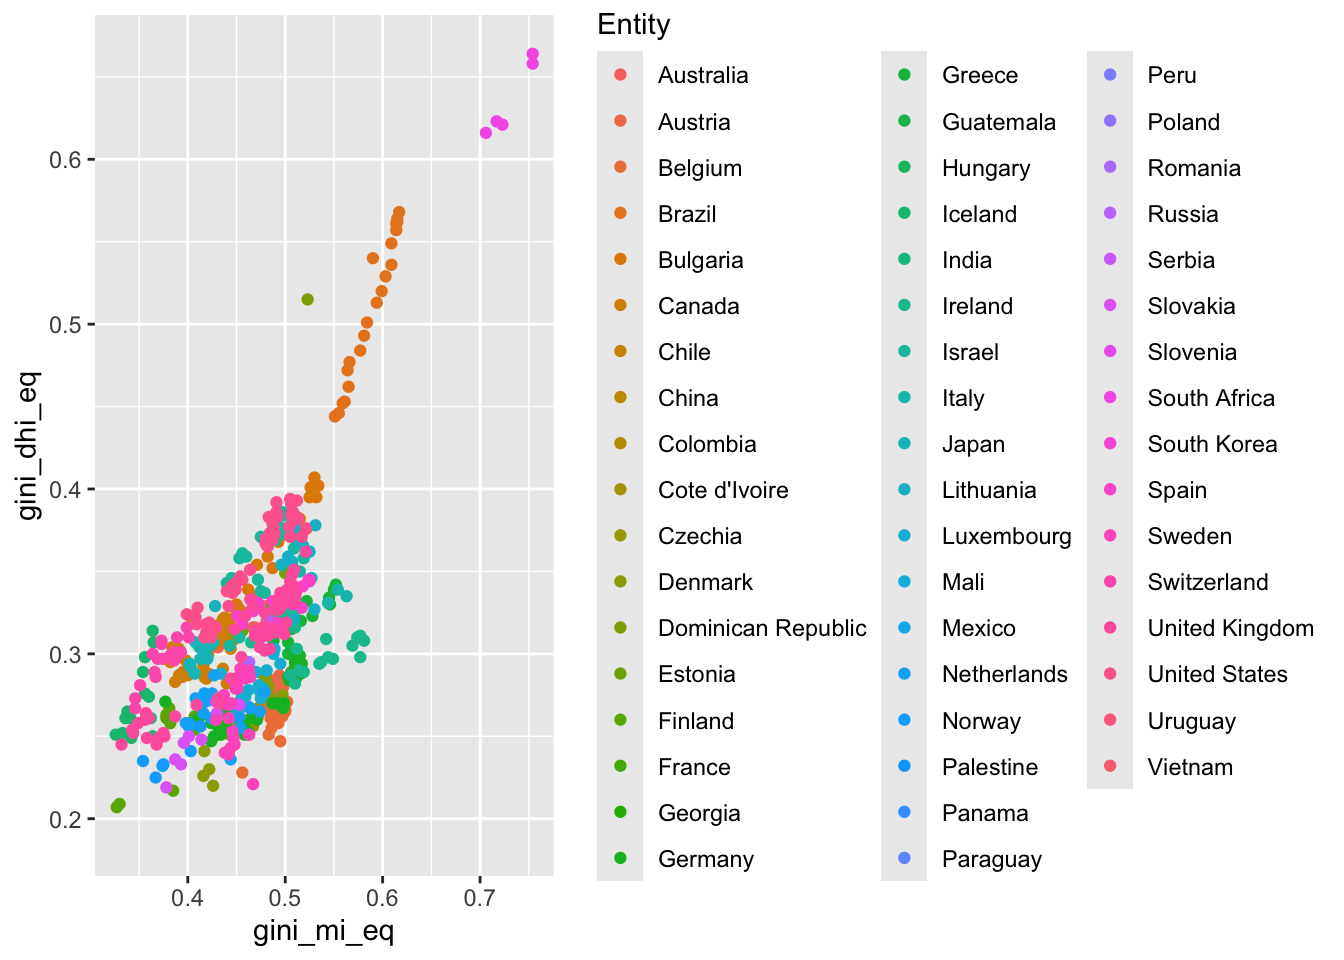
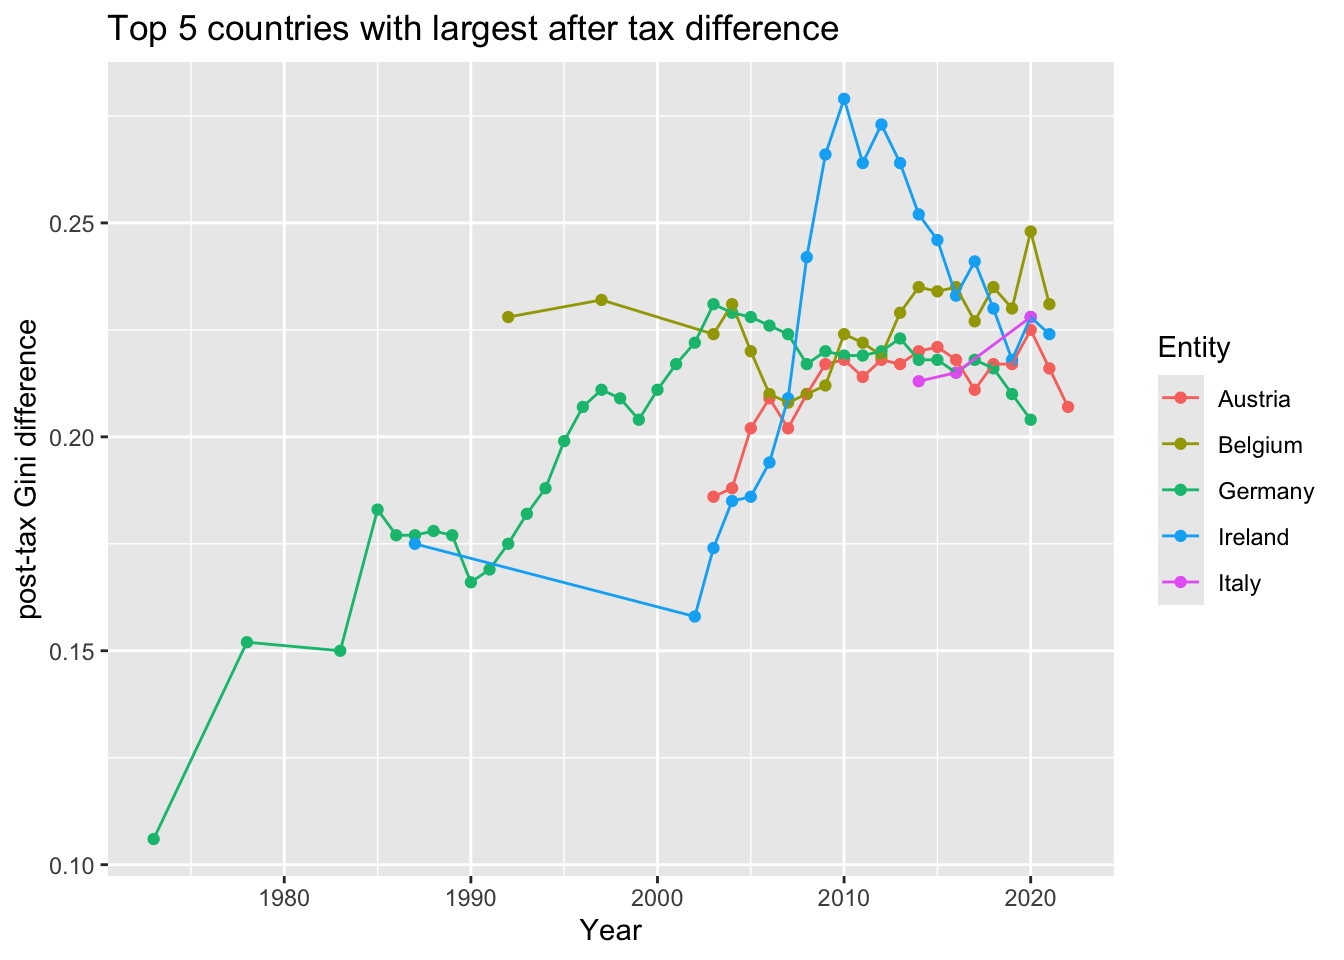
finished

diff --git a/docs/Dataset2.html b/docs/Dataset2.html
@@ -7,9 +7,9 @@
 <meta name="viewport" content="width=device-width, initial-scale=1.0, user-scalable=yes">
 
 <meta name="author" content="Andy Xiao">
-<meta name="description" content="Analysis of income inequality from Tidy Tuesday">
+<meta name="description" content="Analysis of Pixar film rankings from Tidy Tuesday">
 
-<title>Income Inequality Before and After Taxes – Data Science: Andy Xiao</title>
+<title>Pixar Films – Data Science: Andy Xiao</title>
 <style>
 /* Default styles provided by pandoc.
 ** See https://pandoc.org/MANUAL.html#variables-for-html for config info.
@@ -265,11 +265,11 @@ ul.task-list li input[type="checkbox"] {
 <span class="menu-text">Home</span></a>
   </li>  
   <li class="nav-item">
-    <a class="nav-link active" href="./Dataset1.html" aria-current="page"> 
+    <a class="nav-link" href="./Dataset1.html"> 
 <span class="menu-text">Income Inequality</span></a>
   </li>  
   <li class="nav-item">
-    <a class="nav-link" href="./Dataset2.html"> 
+    <a class="nav-link active" href="./Dataset2.html" aria-current="page"> 
 <span class="menu-text">Pixar Films</span></a>
   </li>  
 </ul>
@@ -292,11 +292,11 @@ ul.task-list li input[type="checkbox"] {
   <div class="about-contents">
     <header id="title-block-header" class="quarto-title-block default">
 <div class="quarto-title">
-<h1 class="title">Income Inequality Before and After Taxes</h1>
+<h1 class="title">Pixar Films</h1>
 </div>
 <div>
   <div class="description">
-    Analysis of income inequality from Tidy Tuesday
+    Analysis of Pixar film rankings from Tidy Tuesday
   </div>
 </div>
 <div class="quarto-title-meta column-page">
@@ -309,29 +309,19 @@ ul.task-list li input[type="checkbox"] {
   </div>
 </header> <main class="content column-page" id="quarto-document-content">
 
-<p>In this dataset we are analyzing income inequality before and after taxes. To measure inequality the Gini coefficient measures inequality on a scale from 0 to 1 with high values indicating higher inequality.</p>
+<p>In this tidyTuesday dataset, we are given two data sets pixar_films and public_response. The pixar_films data set outlines every Pixar file with its release date, run time, and film rating. The public_response data set outlines several rating metrics for each of the Pixar films. We can start my merging the two data sets together.</p>
 <div class="cell">
 <div class="cell-output-display">
 <div>
 <figure class="figure">
-<p><img src="Dataset1_files/figure-html/unnamed-chunk-1-1.png" class="img-fluid figure-img" width="672"></p>
+<p><img src="Dataset2_files/figure-html/unnamed-chunk-1-1.png" class="img-fluid figure-img" width="1152"></p>
 </figure>
 </div>
 </div>
 </div>
-<p>In these five countries, taxes and government benefits have the greatest reduction in income inequality with most countries lowering the Gini coeffient by around 0.2 points after taxes and benefits.</p>
-<div class="cell">
-<div class="cell-output-display">
-<div>
-<figure class="figure">
-<p><img src="Dataset1_files/figure-html/unnamed-chunk-2-1.png" class="img-fluid figure-img" width="672"></p>
-</figure>
-</div>
-</div>
-</div>
-<p>Here is the income inequality of the United States before and after tax from 1960-2020. Here we can see a large reduction in the Gini coeffient from pre tax to after tax. This indicates that the United States tax and benefits substantially helps lower income inequality.</p>
-<p>TidyTuesday Data set: https://github.com/rfordatascience/tidytuesday/blob/main/data/2025/2025-08-05/readme.md</p>
-<p>Original source: Hasell, J. (2023). Income inequality before and after taxes: How much do countries redistribute income? Our World in Data. https://ourworldindata.org/income-inequality-before-and-after-taxes</p>
+<p>This data visualizes each of the Pixar films Rotten Tomatoes Score with its release date. In this visulization Cars 2 is a clear outlier with a Rotten Tomatoes Score of 40 while many other Pixar films are much higher.</p>
+<p>TidyTuesday dataset: https://github.com/rfordatascience/tidytuesday/tree/main/data/2025/2025-03-11</p>
+<p>Original source: {pixarfilms} R package by Eric Leung</p>
 
 
 </main> 

diff --git a/docs/index.html b/docs/index.html
@@ -46,9 +46,9 @@ ul.task-list li input[type="checkbox"] {
 <link href="site_libs/quarto-html/quarto-syntax-highlighting-64a204ab8560d761af7679ceaba22944.css" rel="stylesheet" class="quarto-color-scheme-extra" id="quarto-text-highlighting-styles">
 <script src="site_libs/bootstrap/bootstrap.min.js"></script>
 <link href="site_libs/bootstrap/bootstrap-icons.css" rel="stylesheet">
-<link href="site_libs/bootstrap/bootstrap-f311fa492594eea2dd461c5e954f4c25.min.css" rel="stylesheet" append-hash="true" class="quarto-color-scheme" id="quarto-bootstrap" data-mode="dark">
+<link href="site_libs/bootstrap/bootstrap-ba8f7c244c1f50cbf6c6a3aa3874339a.min.css" rel="stylesheet" append-hash="true" class="quarto-color-scheme" id="quarto-bootstrap" data-mode="light">
 <link href="site_libs/bootstrap/bootstrap-dark-b015860c8b364e46083be0abd0510b64.min.css" rel="stylesheet" append-hash="true" class="quarto-color-scheme quarto-color-alternate" id="quarto-bootstrap" data-mode="dark">
-<link href="site_libs/bootstrap/bootstrap-f311fa492594eea2dd461c5e954f4c25.min.css" rel="stylesheet" append-hash="true" class="quarto-color-scheme-extra" id="quarto-bootstrap" data-mode="dark">
+<link href="site_libs/bootstrap/bootstrap-ba8f7c244c1f50cbf6c6a3aa3874339a.min.css" rel="stylesheet" append-hash="true" class="quarto-color-scheme-extra" id="quarto-bootstrap" data-mode="light">
 <script id="quarto-search-options" type="application/json">{
   "location": "navbar",
   "copy-button": false,
@@ -81,7 +81,7 @@ ul.task-list li input[type="checkbox"] {
 <link rel="stylesheet" href="styles.css">
 </head>
 
-<body class="nav-fixed quarto-light"><script id="quarto-html-before-body" type="application/javascript">
+<body class="nav-fixed quarto-dark"><script id="quarto-html-before-body" type="application/javascript">
     const toggleBodyColorMode = (bsSheetEl) => {
       const mode = bsSheetEl.getAttribute("data-mode");
       const bodyEl = window.document.querySelector("body");
@@ -223,10 +223,8 @@ ul.task-list li input[type="checkbox"] {
         changeGiscusTheme();
       }
     };
-    const authorPrefersDark = false;
+    const authorPrefersDark = true;
     const darkModeDefault = authorPrefersDark;
-      document.querySelector('link#quarto-text-highlighting-styles.quarto-color-scheme-extra').rel = 'disabled-stylesheet';
-      document.querySelector('link#quarto-bootstrap.quarto-color-scheme-extra').rel = 'disabled-stylesheet';
     let localAlternateSentinel = darkModeDefault ? 'alternate' : 'default';
     // Dark / light mode switch
     window.quartoToggleColorScheme = () => {
@@ -265,13 +263,12 @@ ul.task-list li input[type="checkbox"] {
 <span class="menu-text">Home</span></a>
   </li>  
   <li class="nav-item">
-    <a class="nav-link" href="./about.html"> 
-<span class="menu-text">About</span></a>
+    <a class="nav-link" href="./Dataset1.html"> 
+<span class="menu-text">Income Inequality</span></a>
   </li>  
   <li class="nav-item">
-    <span class="nav-link">
-<span class="menu-text">Dataset.qmd</span>
-    </span>
+    <a class="nav-link" href="./Dataset2.html"> 
+<span class="menu-text">Pixar Films</span></a>
   </li>  
 </ul>
           </div> <!-- /navcollapse -->
@@ -299,8 +296,7 @@ ul.task-list li input[type="checkbox"] {
 </header> 
       <div class="about-contents"><main class="content column-page" id="quarto-document-content">
 
-<p>This is a Quarto website.</p>
-<p>To learn more about Quarto websites visit <a href="https://quarto.org/docs/websites" class="uri">https://quarto.org/docs/websites</a>.</p>
+<p>This is Andy Xiao’s Project 1 which analyzes two Tidy Tuesday datasets</p>
 
 
 </main></div>

diff --git a/docs/about.html b/docs/about.html
@@ -47,9 +47,9 @@ ul.task-list li input[type="checkbox"] {
 <link href="site_libs/quarto-html/quarto-syntax-highlighting-64a204ab8560d761af7679ceaba22944.css" rel="stylesheet" class="quarto-color-scheme-extra" id="quarto-text-highlighting-styles">
 <script src="site_libs/bootstrap/bootstrap.min.js"></script>
 <link href="site_libs/bootstrap/bootstrap-icons.css" rel="stylesheet">
-<link href="site_libs/bootstrap/bootstrap-f311fa492594eea2dd461c5e954f4c25.min.css" rel="stylesheet" append-hash="true" class="quarto-color-scheme" id="quarto-bootstrap" data-mode="dark">
+<link href="site_libs/bootstrap/bootstrap-ba8f7c244c1f50cbf6c6a3aa3874339a.min.css" rel="stylesheet" append-hash="true" class="quarto-color-scheme" id="quarto-bootstrap" data-mode="light">
 <link href="site_libs/bootstrap/bootstrap-dark-b015860c8b364e46083be0abd0510b64.min.css" rel="stylesheet" append-hash="true" class="quarto-color-scheme quarto-color-alternate" id="quarto-bootstrap" data-mode="dark">
-<link href="site_libs/bootstrap/bootstrap-f311fa492594eea2dd461c5e954f4c25.min.css" rel="stylesheet" append-hash="true" class="quarto-color-scheme-extra" id="quarto-bootstrap" data-mode="dark">
+<link href="site_libs/bootstrap/bootstrap-ba8f7c244c1f50cbf6c6a3aa3874339a.min.css" rel="stylesheet" append-hash="true" class="quarto-color-scheme-extra" id="quarto-bootstrap" data-mode="light">
 <script id="quarto-search-options" type="application/json">{
   "location": "navbar",
   "copy-button": false,
@@ -82,7 +82,7 @@ ul.task-list li input[type="checkbox"] {
 <link rel="stylesheet" href="styles.css">
 </head>
 
-<body class="nav-fixed quarto-light"><script id="quarto-html-before-body" type="application/javascript">
+<body class="nav-fixed quarto-dark"><script id="quarto-html-before-body" type="application/javascript">
     const toggleBodyColorMode = (bsSheetEl) => {
       const mode = bsSheetEl.getAttribute("data-mode");
       const bodyEl = window.document.querySelector("body");
@@ -224,10 +224,8 @@ ul.task-list li input[type="checkbox"] {
         changeGiscusTheme();
       }
     };
-    const authorPrefersDark = false;
+    const authorPrefersDark = true;
     const darkModeDefault = authorPrefersDark;
-      document.querySelector('link#quarto-text-highlighting-styles.quarto-color-scheme-extra').rel = 'disabled-stylesheet';
-      document.querySelector('link#quarto-bootstrap.quarto-color-scheme-extra').rel = 'disabled-stylesheet';
     let localAlternateSentinel = darkModeDefault ? 'alternate' : 'default';
     // Dark / light mode switch
     window.quartoToggleColorScheme = () => {
@@ -266,12 +264,12 @@ ul.task-list li input[type="checkbox"] {
 <span class="menu-text">Home</span></a>
   </li>  
   <li class="nav-item">
-    <a class="nav-link active" href="./about.html" aria-current="page"> 
-<span class="menu-text">About</span></a>
+    <a class="nav-link" href="./Dataset1.html"> 
+<span class="menu-text">Income Inequality</span></a>
   </li>  
   <li class="nav-item">
-    <a class="nav-link" href="./Dataset1.html"> 
-<span class="menu-text">Income Inequality Before and After Taxes</span></a>
+    <a class="nav-link active" href="./about.html" aria-current="page"> 
+<span class="menu-text">About</span></a>
   </li>  
 </ul>
           </div> <!-- /navcollapse -->
